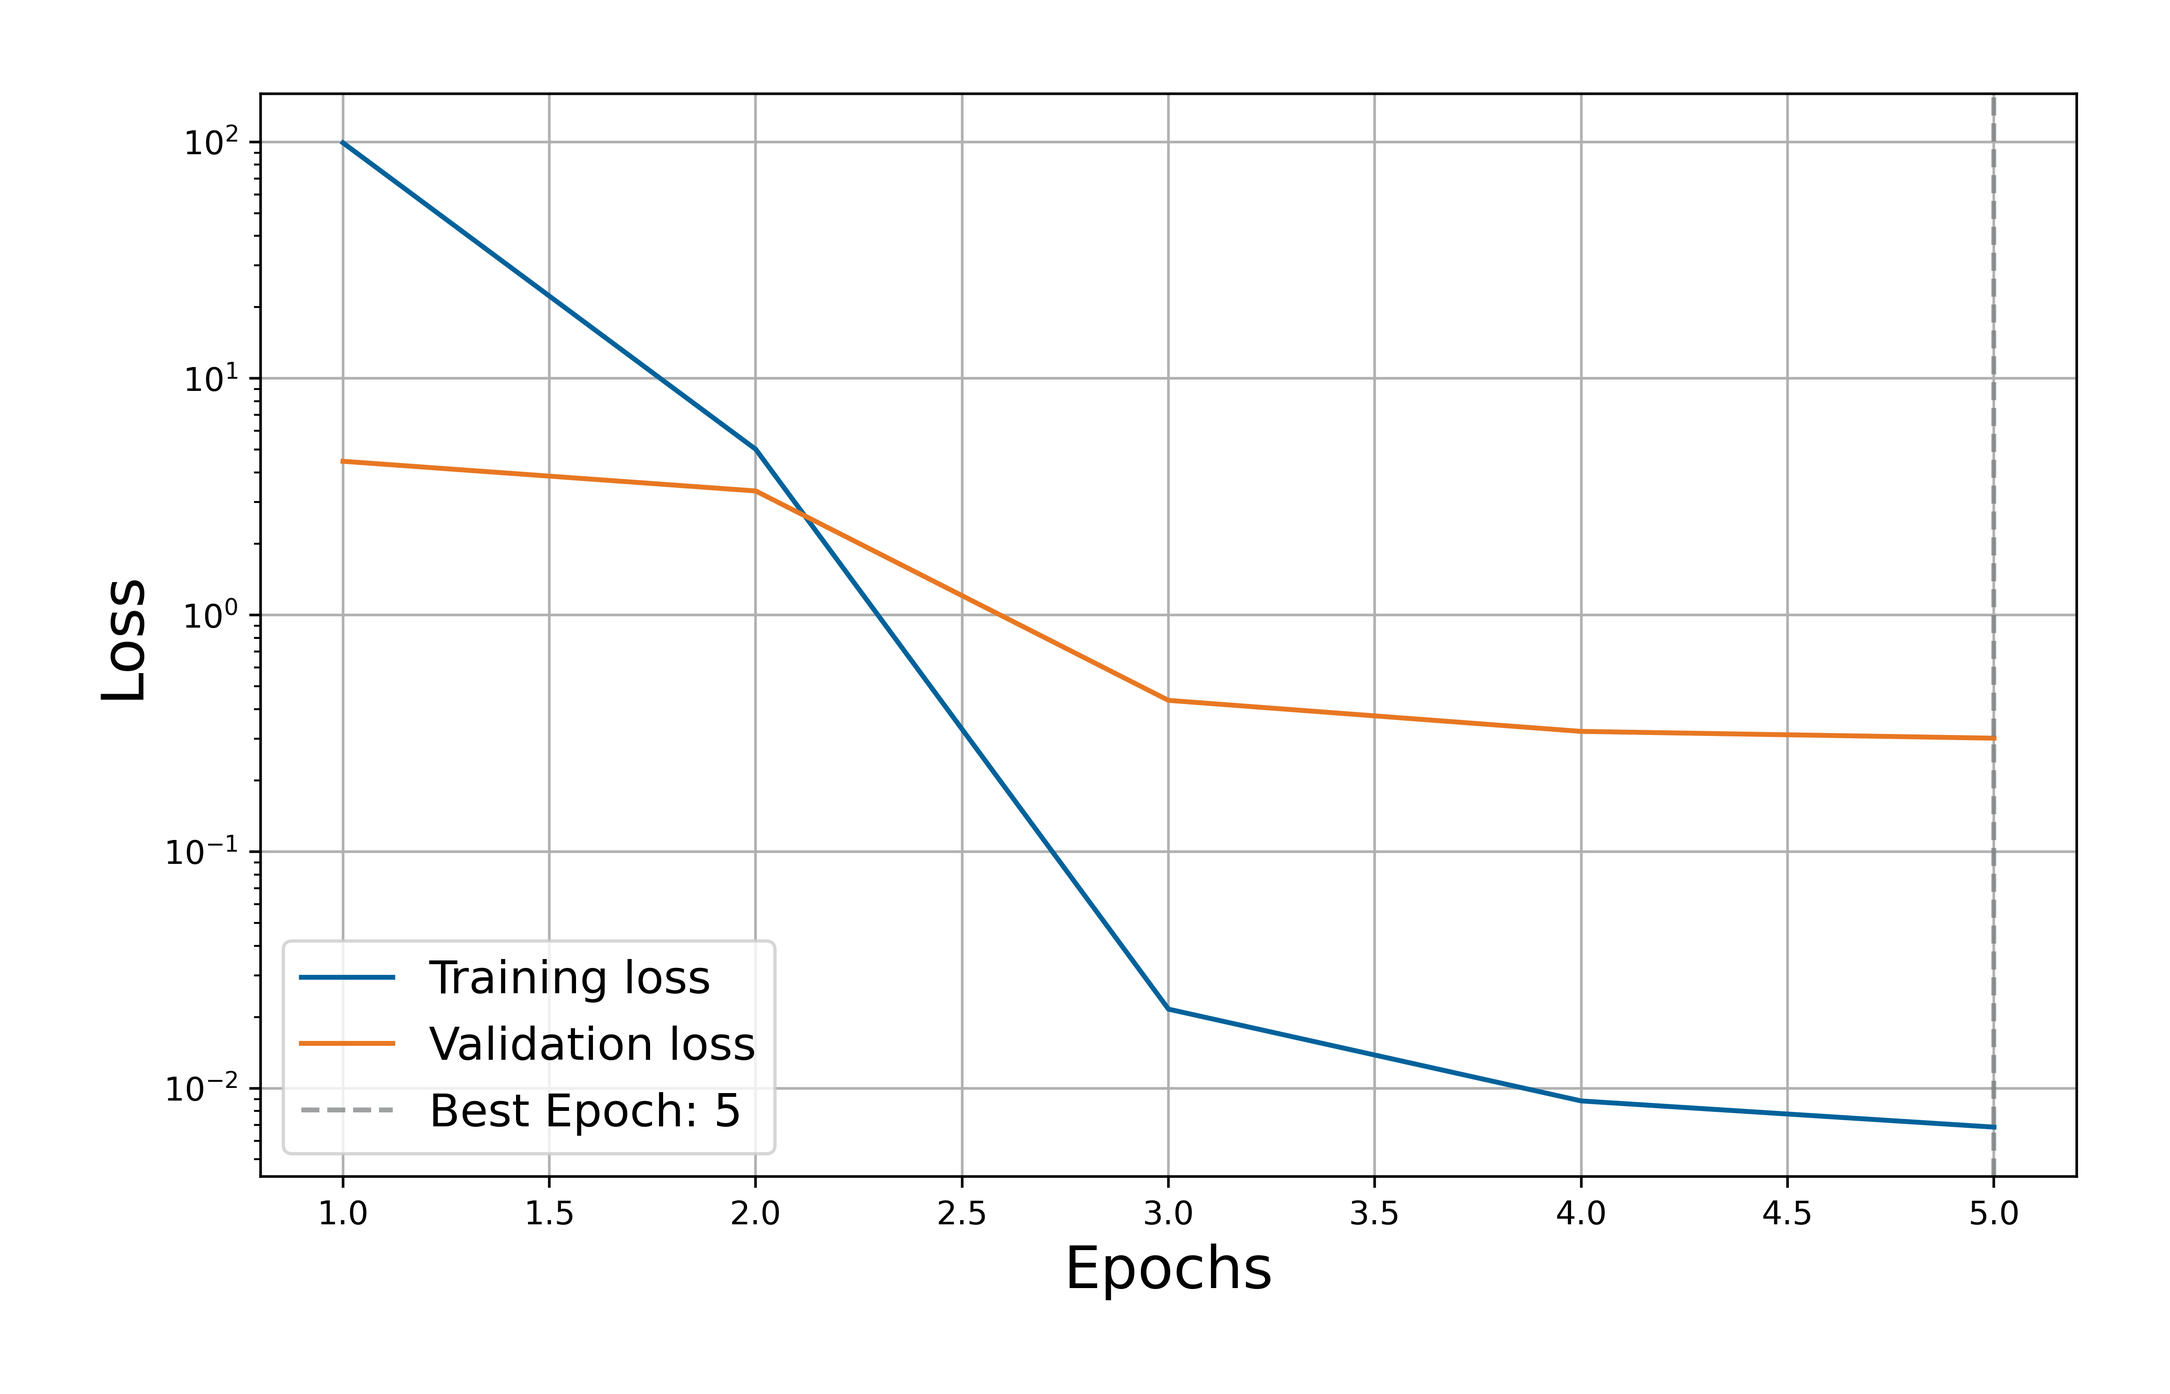
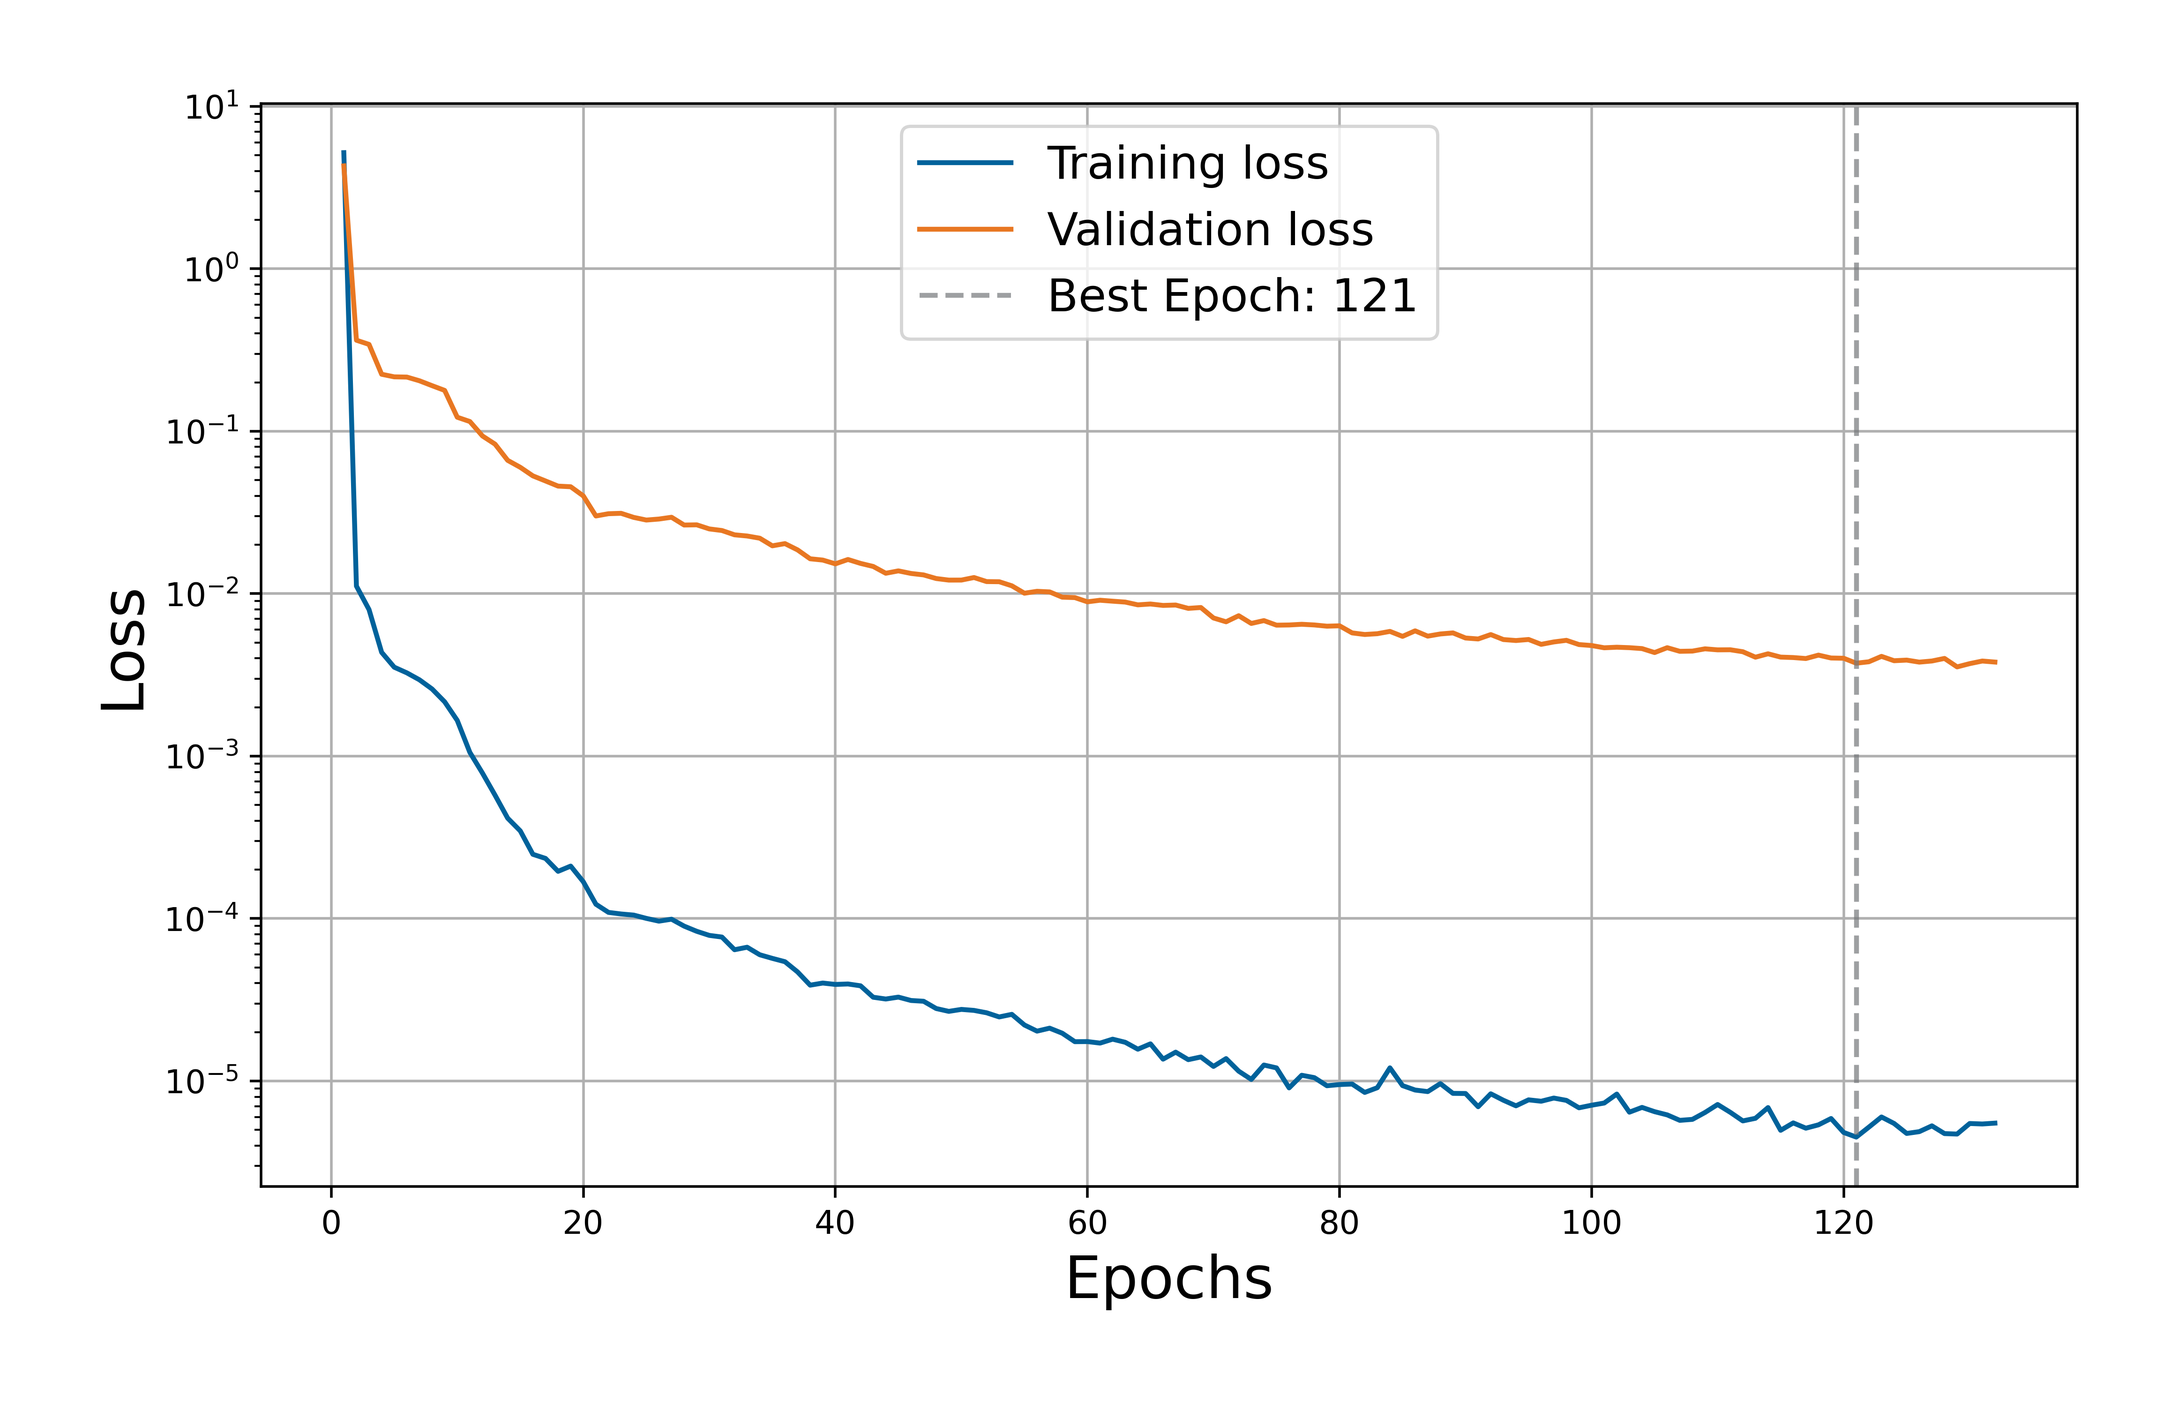
Poisson example done

diff --git a/forward_problems/poisson_MLP/poisson_MLP.py b/forward_problems/poisson_MLP/poisson_MLP.py
@@ -40,19 +40,21 @@ References
     Computational Physics, 378*, 686-707.
 - PyTorch documentation: https://pytorch.org/docs/stable/nn.html
 """
-import numpy as np                                                                 # Numpy library.
-import torch                                                                       # Import PyTorch
-from typing import Callable                                                        # Type hinting.
-import sys, os                                                                     # Import sys and os modules.
-import random                                                                      # Random library.
-np.set_printoptions(precision = 17, suppress = False)                              # Set print options for numpy.
-np.random.seed(0)                                                                  # Seed for reproducibility.
-random.seed(0)                                                                     # Seed for reproducibility.
-torch.manual_seed(0)                                                               # Seed for reproducibility.
-torch.backends.cudnn.benchmark = False                                             # Reproducibility for CUDA.
-device = torch.device("cuda" if torch.cuda.is_available() else "cpu")              # Set device to GPU if available, else CPU.
-sys.path.append(os.path.abspath(os.path.join(os.path.dirname(__file__), "../.."))) # Add the parent directory to the path.
-from pinn_base import PinnBase                                                     # Import the base class for PINNs.
+import numpy as np                                                                   # Numpy library.
+import torch                                                                         # Import PyTorch
+from typing import Callable                                                          # Type hinting.
+import sys, os                                                                       # Import sys and os modules.
+import random                                                                        # Random library.
+np.set_printoptions(precision = 17, suppress = False)                                # Set print options for numpy.
+np.random.seed(0)                                                                    # Seed for reproducibility.
+random.seed(0)                                                                       # Seed for reproducibility.
+torch.manual_seed(0)                                                                 # Seed for reproducibility.
+torch.backends.cudnn.benchmark = False                                               # Reproducibility for CUDA.
+device = torch.device("cuda" if torch.cuda.is_available() else "cpu")                # Set device to GPU if available, else CPU.
+sys.path.append(os.path.abspath(os.path.join(os.path.dirname(__file__), "../..")))   # Add the parent directory to the path.
+from pinn_base import PinnBase                                                       # Import the base class for PINNs.
+from plotting import plot_loss, plot_solution_square, plot_comparison_contour_square # Plotting functions.
+from utils import get_model_info                                                     # Utility function to get model information.
 
 class PoissonPinn(PinnBase):
     def __init__(self, **params):
@@ -136,19 +138,19 @@ class PoissonPinn(PinnBase):
 
         return lb_pde * loss_pde + lb_bc * loss_bc
 
-# ==============================================================================================================
+# =======================================================================================================
 # Main function.
-# ==============================================================================================================
+# =======================================================================================================
 if __name__ == "__main__":
 
-    from architectures import MLP                                                        # Import the MLP architecture for the PINN.
-    from sampling import sample_square_uniform                                           # Sampling function for uniform sampling in a square domain.
-    from plotting import plot_loss, plot_solution_square, plot_comparison_contour_square # Plotting functions.
-    from utils import get_model_info                                                     # Utility function to get model information.
-  
-    # Define the model class and its parameters.
+    from architectures import MLP              # Import the MLP architecture for the PINN.
+    from sampling import sample_square_uniform # Sampling function for uniform sampling in a square domain.
+    
+    # ---------------------------------------------------------------------------------------------------
+    # Domain and model parameters.
+    # ---------------------------------------------------------------------------------------------------
     domain_kwargs = {
-        # Domain parameters for the Poisson equation.
+        # Domain parameters.
         'dim1_min'      : 0.,
         'dim1_max'      : 1.,
         'dim2_min'      : 0.,
@@ -167,10 +169,14 @@ if __name__ == "__main__":
         'data_x'        : None,
         'data_u'        : None, 
     }
+
+    # ---------------------------------------------------------------------------------------------------
+    # Architecture and optimizer parameters.
+    # ---------------------------------------------------------------------------------------------------
     model_kwargs = {
-        'inputSize'  : 2,
-        'hidden_lys' : [100, 100, 100],
-        'outputSize' : 1
+        'inputSize'  : 2,               # Because we do not have parameters.
+        'hidden_lys' : [100, 100, 100], # Hidden layers of the MLP.
+        'outputSize' : 1                # Output size of the MLP (1 for the Poisson equation).
     }
     
     optimizer_class = torch.optim.LBFGS
@@ -183,42 +189,44 @@ if __name__ == "__main__":
         'line_search_fn'   : "strong_wolfe" # Line search function for the optimizer.
     }
 
-    directory = os.path.dirname(__file__)
-    directory_checkpoint = os.path.join(directory, "trained_models/")
     checkpoint_filename = 'poisson_MLP.pth'
-
     poisson_pinn = PoissonPinn(
         model_class         = MLP,                   # Model class for the PINN.
         model_kwargs        = model_kwargs,          # Model parameters for the PINN.
         domain_kwargs       = domain_kwargs,         # Domain parameters.
         optimizer_class     = optimizer_class,       # Optimizer class (default is LBFGS).
         optimizer_kwargs    = optimizer_kwargs,      # Optimizer parameters.
-        epochs              = 5,                   # Number of epochs for training.
+        epochs              = 150,                   # Number of epochs for training.
         patience            = 10,                    # Patience for early stopping.
         sampling_fn         = sample_square_uniform, # Sampling function.
-        checkpoint_path     = directory_checkpoint,  # Path to save the checkpoints.
         checkpoint_filename = checkpoint_filename,   # Filename for the checkpoints.
     )
 
     # Train the model.
-    #poisson_pinn.train()
+    poisson_pinn.train()
 
     # Load the complete model.
-    poisson_pinn.load_model(load_best = False)      # Load the complete model.
-    get_model_info(directory_checkpoint + checkpoint_filename) # Print model information.
+    poisson_pinn.load_model(load_best = False) # Load the complete model.
+    get_model_info(checkpoint_filename)        # Print model information.
     
     # Plot the loss and the solution.
-    plot_loss(model_instance = poisson_pinn, filename = os.path.join(directory, "loss_plot.png")) # Plot the training and validation loss.
+    plot_loss(
+        model_instance = poisson_pinn,
+        filename       = "loss_plot.png"
+    )
 
     # Plot the solution with the best model.
-    poisson_pinn.load_model(load_best = True)                                      # Load the best model.
-    plot_solution_square(model = poisson_pinn.pinn, domain_kwargs = domain_kwargs,
-                         filename = os.path.join(directory, "solution_plot.png"))  # Plot the solution.
+    poisson_pinn.load_model(load_best = True) # Load the best model.
+    plot_solution_square(
+        model         = poisson_pinn.pinn,
+        domain_kwargs = domain_kwargs,
+        filename      = "solution_plot.png"
+    )
 
     # Plot the comparison of the PINN solution with the analytical solution.
     plot_comparison_contour_square(
         model               = poisson_pinn.pinn,
         analytical_solution = poisson_pinn.analytical_solution,
         domain_kwargs       = domain_kwargs,
-        filename            = os.path.join(directory, "comparison_plot.png")
+        filename            = "comparison_plot.png"
     )

diff --git a/pinn_base.py b/pinn_base.py
@@ -42,7 +42,7 @@ import numpy as np                                    # NumPy for numerical oper
 import random                                         # Random module for reproducibility.         
 from abc import ABC, abstractmethod                   # Abstract Base Class for defining abstract methods.
 from typing import Callable                           # Type hinting for callable functions.
-import os                                             # OS module for file path operations.
+import os, sys                                        # OS module for file path operations.
 from trainer import train_pinn                        # Import the training function for PINNs.
 from utils import load_model, save_checkpoint         # Utility functions for loading and saving model checkpoints.
 np.set_printoptions(precision = 17, suppress = False) # Set numpy print options for better precision and suppress scientific notation.
@@ -56,7 +56,7 @@ class PinnBase(ABC):
     def __init__(
             self, epochs: int, patience: int, model_class: type, model_kwargs: dict,
             sampling_fn: Callable, domain_kwargs: dict, optimizer_class: type, optimizer_kwargs: dict,
-            checkpoint_path: str = "trained_model", checkpoint_filename: str = "checkpoint.pth"
+            checkpoint_filename: str = "checkpoint.pth"
         ):
         """
         Initializes the base class for Physics-Informed Neural Networks (PINNs) in 2D or 1D+time domains.
@@ -99,9 +99,9 @@ class PinnBase(ABC):
         self.domain_kwargs = domain_kwargs               # Domain parameters for the sampling function.
 
         # Checkpoint config.
-        self.checkpoint_path     = checkpoint_path                                  # Path to save the checkpoints.
-        self.checkpoint_filename = checkpoint_filename                              # Filename for the checkpoints. 
-        self.best_model_filename = checkpoint_filename.replace('.pth', '_best.pth') # Filename for the best model.
+        self.checkpoint_path     = os.path.join(os.path.dirname(os.path.abspath(sys.argv[0])), "trained_models") # Path to save the checkpoints.
+        self.checkpoint_filename = checkpoint_filename                                                           # Filename for the checkpoints. 
+        self.best_model_filename = checkpoint_filename.replace('.pth', '_best.pth')                              # Filename for the best model.
 
         # Optimizer config.
         self.optimizer_class = optimizer_class if optimizer_class is not None else torch.optim.LBFGS

diff --git a/plotting.py b/plotting.py
@@ -34,6 +34,7 @@ References
     Journal of Computational Physics, 378, 686-707.
 """
 # Necessary libraries.
+import os, sys                        # OS and sys modules for file path operations.
 import torch                          # PyTorch library for tensor operations.
 import matplotlib.pyplot as plt       # Matplotlib for plotting.
 from typing import Callable, Optional # Type hinting for callable functions and optional parameters.
@@ -92,7 +93,8 @@ def plot_loss(
     ax.grid(True)
 
     if filename:
-        plt.savefig(filename, bbox_inches = 'tight', pad_inches = 0.4, dpi = 500)
+        path = os.path.join(os.path.dirname(os.path.abspath(sys.argv[0])), filename)
+        plt.savefig(path, bbox_inches = 'tight', pad_inches = 0.4, dpi = 500)
     if created_figure:
         plt.show()
 
@@ -180,7 +182,8 @@ def plot_solution_square(
         ax.legend()
 
     if filename:
-        plt.savefig(filename, bbox_inches = 'tight', pad_inches = 0.45, dpi = 500)
+        path = os.path.join(os.path.dirname(os.path.abspath(sys.argv[0])), filename)
+        plt.savefig(path, bbox_inches = 'tight', pad_inches = 0.45, dpi = 500)
     if created_figure:
         plt.show()
 
@@ -260,7 +263,8 @@ def plot_solution_circle(
     ax.set_zlabel(zlabel, fontsize = 12)  
 
     if filename:
-        fig.savefig(filename, bbox_inches = 'tight', pad_inches = 0.45, dpi = 500)
+        path = os.path.join(os.path.dirname(os.path.abspath(sys.argv[0])), filename)
+        fig.savefig(path, bbox_inches = 'tight', pad_inches = 0.45, dpi = 500)
     if created_figure:
         plt.show()
 
@@ -369,7 +373,8 @@ def plot_comparison_contour_square(
 
     # Save or display.
     if filename:
-        plt.savefig(filename, bbox_inches = 'tight', pad_inches = 0.4, dpi = 500)
+        path = os.path.join(os.path.dirname(os.path.abspath(sys.argv[0])), filename)
+        plt.savefig(path, bbox_inches = 'tight', pad_inches = 0.4, dpi = 500)
     if created_figure:
         plt.show()
 
@@ -479,6 +484,7 @@ def plot_comparison_contour_circle(
     fig.colorbar(cs3, cax = cbar_ax2).set_label("Absolute Error", fontsize = 13)
 
     if filename:
-        plt.savefig(filename, bbox_inches = 'tight', pad_inches = 0.4, dpi = 500)
+        path = os.path.join(os.path.dirname(os.path.abspath(sys.argv[0])), filename)
+        plt.savefig(path, bbox_inches = 'tight', pad_inches = 0.4, dpi = 500)
     if created_figure:
         plt.show()

diff --git a/utils.py b/utils.py
@@ -41,7 +41,7 @@ References
 # Necessary libraries.
 import numpy as np # NumPy for numerical operations.
 import torch       # PyTorch library for tensor operations.
-import os          # OS module for file operations.
+import os, sys     # OS module for file operations.
 import shutil      # Shutil module for file operations.
 import datetime    # Datetime module for timestamping.
 import random      # Random module for reproducibility.
@@ -65,6 +65,7 @@ def get_model_info(filename: str, device: str = 'cpu') -> None:
         Outputs formatted information to the console. Returns the raw checkpoint if parameters are missing.
     """
     # Load the checkpoint file.
+    filename = os.path.join(os.path.dirname(os.path.abspath(sys.argv[0])), "trained_models", filename)
     checkpoint = torch.load(filename, map_location = torch.device(device), weights_only = False)
     params = checkpoint.get('params', None)
 
@@ -191,7 +192,6 @@ def save_checkpoint(pinn_instance: object, state: dict, is_best: bool) -> None:
             "python"          : random.randint(0, 100000),
         },
         "datetime"            : datetime.datetime.now().strftime("%Y-%m-%d %H:%M:%S"),
-        "checkpoint_path"     : pinn_instance.checkpoint_path,
         "checkpoint_filename" : pinn_instance.checkpoint_filename,
         "model_repr"          : str(pinn_instance.pinn)
     }

diff --git a/forward_problems/poisson_MLP/README.md b/forward_problems/poisson_MLP/README.md
@@ -6,15 +6,15 @@ This experiment solves the 2D Poisson equation on the unit square \[0,1\]×\[0,1
 
 The following PDE is solved:
 
-              Δu(x,y) = -2π²sin(πx)sin(πy),
+&nbsp; &nbsp; &nbsp; &nbsp; &nbsp; &nbsp; &nbsp; &nbsp; Δu(x,y) = –2π² · sin(πx) · sin(πy),
 
 with homogeneous Dirichlet boundary conditions:
 
-              u(x,0) = u(x,1) = u(0,y) = u(1,y) = 0.
+&nbsp; &nbsp; &nbsp; &nbsp; &nbsp; &nbsp; &nbsp; &nbsp; u(x,0) = u(x,1) = u(0,y) = u(1,y) = 0.
 
 The analytical solution is:
 
-              u(x,y) = sin(πx)sin(πy).
+&nbsp; &nbsp; &nbsp; &nbsp; &nbsp; &nbsp; &nbsp; &nbsp; u(x,y) = sin(πx) · sin(πy).
         
 ---
 
